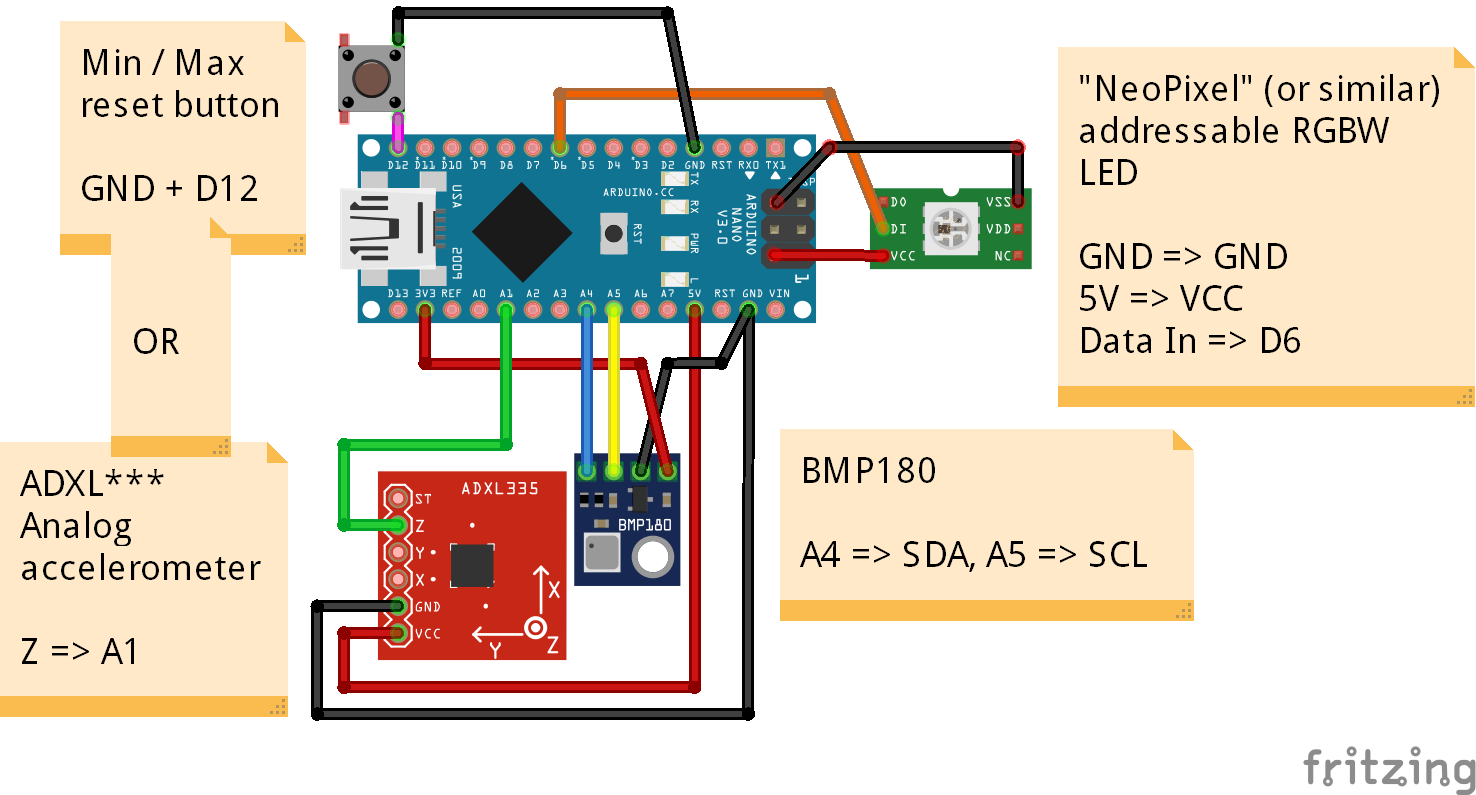
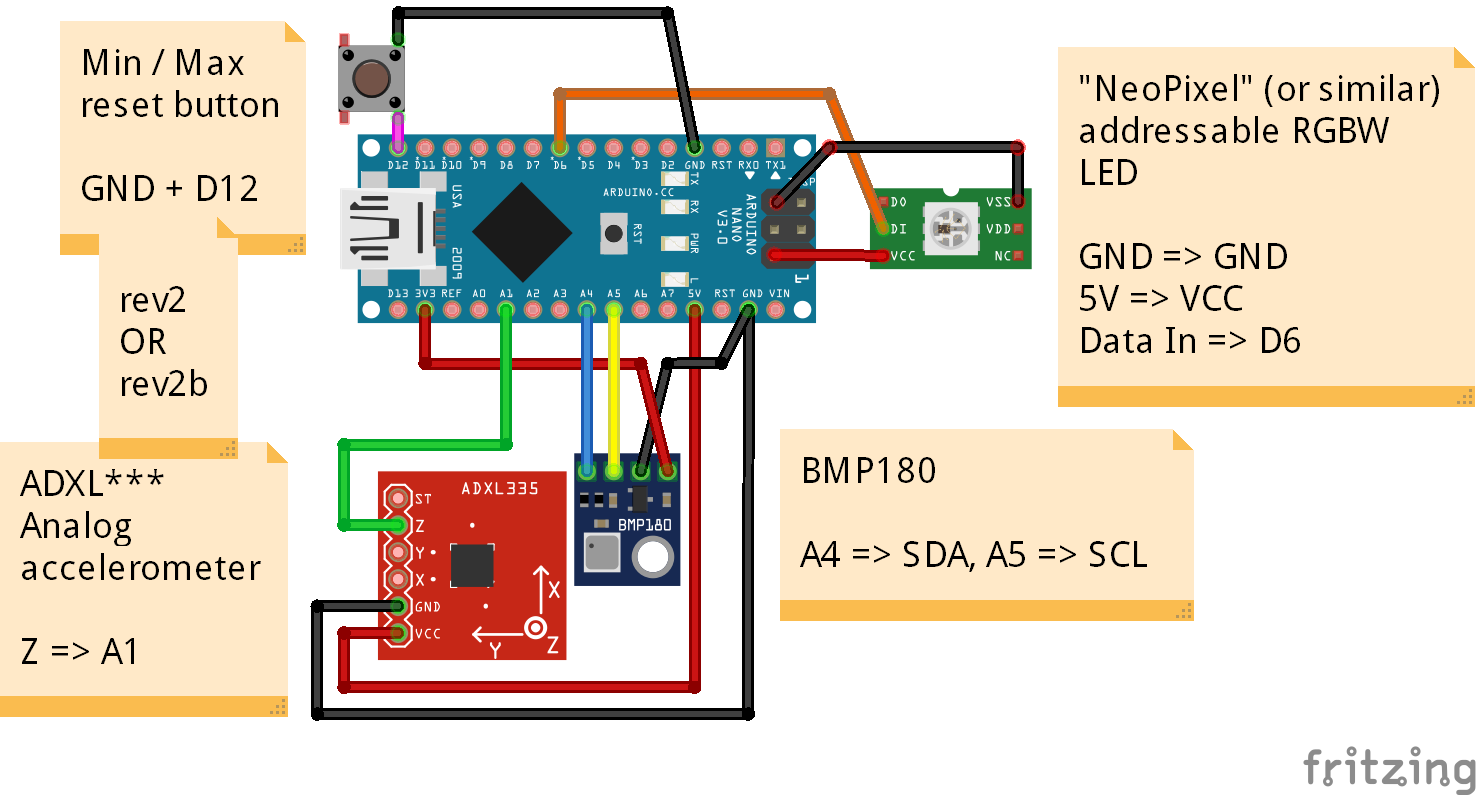
Added Rev2b documentation

Changed region(s): [[0.0623, 0.3019, 0.187, 0.5736], [0.1247, 0.2717, 0.1558, 0.3019]]

diff --git a/doc/manuals/de_Benutzerhandbuch.md b/doc/manuals/de_Benutzerhandbuch.md
@@ -1,4 +1,5 @@
 
+
 # StormCandle Benutzerhandbuch
 Herzlichen Glückwunsch zum ~~Kauf~~ Bau Ihrer StormCandle.
 Damit Ihnen das Produkt viel Freude bereitet, lesen Sie bitte die folgenden Hinweise aufmerksam und befolgen Sie sie.
@@ -19,8 +20,15 @@ Zur Nutzung des Gerätes stellen Sie es bitte an einem gut einsehbaren Ort auf u
 Nach der ersten Inbetriebnahme sollten Sie eine Rücksetzung durchführen (siehe unten).
 
 ### Höchst- und Tiefstwerte zurücksetzen
-Um eine Rücksetzung durchzuführen, trennen Sie das Gerät bitte zunächst vom Strom. Halten Sie den Knopf an der Unterseite gedrückt. Ggf. müssen Sie hierzu eine Abdeckung entfernen.
-Während Sie den Knopf weiter gedrückt halten, verbinden Sie das Gerät mit der Stromzufuhr; halten Sie den Knopf weiter gedrückt.
+
+#### Revision 2 (Mit Reset-Knopf)
+Um eine Rücksetzung durchzuführen, trennen Sie das Gerät bitte zunächst vom Strom. Halten Sie den Knopf an der Unterseite gedrückt. Ggf. müssen Sie hierzu eine Abdeckung entfernen. Während Sie den Knopf weiter gedrückt halten, verbinden Sie das Gerät mit der Stromzufuhr; halten Sie den Knopf weiter gedrückt.
+
+#### Revision 2b (Ohne Reset-Knopf)
+Um eine Rücksetzung durchzuführen, trennen Sie das Gerät bitte zunächst vom Strom. Drehen Sie die Lampe auf den Kopf und halten Sie sie so. Verbinden Sie das Gerät nun mit der Stromzufuhr.
+
+![Frizzing sketch](doc/rev2b_reset.png?raw=true "Rev2b reset process")
+
 Die StormCandle blinkt dreimal rot (eine Sekunde Leuchtdauer) und anschließen einmal grün (zwei Sekunden). Sobald das grüne Licht erlischt sind die Höchst- und Tiefstwerte zurückgesetzt und die Lampe flackert in den Farben Warmweiß, Rot und Blau.
 Das Flackern entsteht durch geringfügige Luftdruckschwankungen und lässt nach, sobald das Gerät höhere und niedriger Luftdrücke "erlernt" hat. Dies kann einige Stunden oder Tage dauern, während derer die Lampe **nicht** durchgehend in Betrieb sein muss.
 Sie können das den Erfolg des Zurücksetzens testen, indem Sie die Lampe einen halben Meter anheben und absenken. Die Lichtfarbe sollte der Höhe entsprechend leicht rot bzw. blau werden.

diff --git a/doc/manuals/en_manual.md b/doc/manuals/en_manual.md
@@ -20,8 +20,16 @@ To use the device, place it in a convenient location where you can see it and co
 After first setup, you should perform a reset as described below.
 
 ### Resetting min / max values
-To perform a reset, first disconnect the device from power. Hold down the reset button (you may need to remove a cover at the bottom of the device to acces the button). 
-While holding, connect the device to power and wait. The device will blink three times red (1 second) and once green (2 seconds). 
+
+#### Revision 2 (with reset button)
+To perform a reset, first disconnect the device from power. Hold down the reset button (you may need to remove a cover at the bottom of the device to acces the button). While holding, connect the device to power and wait. 
+
+#### Revision 2b (no reset button)
+To perform a reset, first disconnect the device from power. Turn over the device and connect the device to power.
+
+![Frizzing sketch](doc/rev2b_reset.png?raw=true "Rev2b reset process")
+
+The device will blink three times red (1 second) and once green (2 seconds). 
 At the end of the green light, the device will be reset and start flickering white, blue and red.
 
 ## Technical information

diff --git a/README.md b/README.md
@@ -1,4 +1,4 @@
-# StormCandleRev2
+# StormCandleRev2 & Rev2b
 
 An electronic candle measuring the air pressure and displaying it on a single, adressable RGBW LED.
 
@@ -6,6 +6,8 @@ An average air pressure is displayed by white light, high pressure in red and lo
 The minimum and maximum pressure values are adapted automatically and stored in the EEPROM.
 
 ![Frizzing sketch](doc/Layout.png?raw=true "Frizzing sketch")
+
+This code works both with Revision 2 (reset button at the bottom) and Revision 2b (reset by accelerometer).
 
 
 ## Manuals
